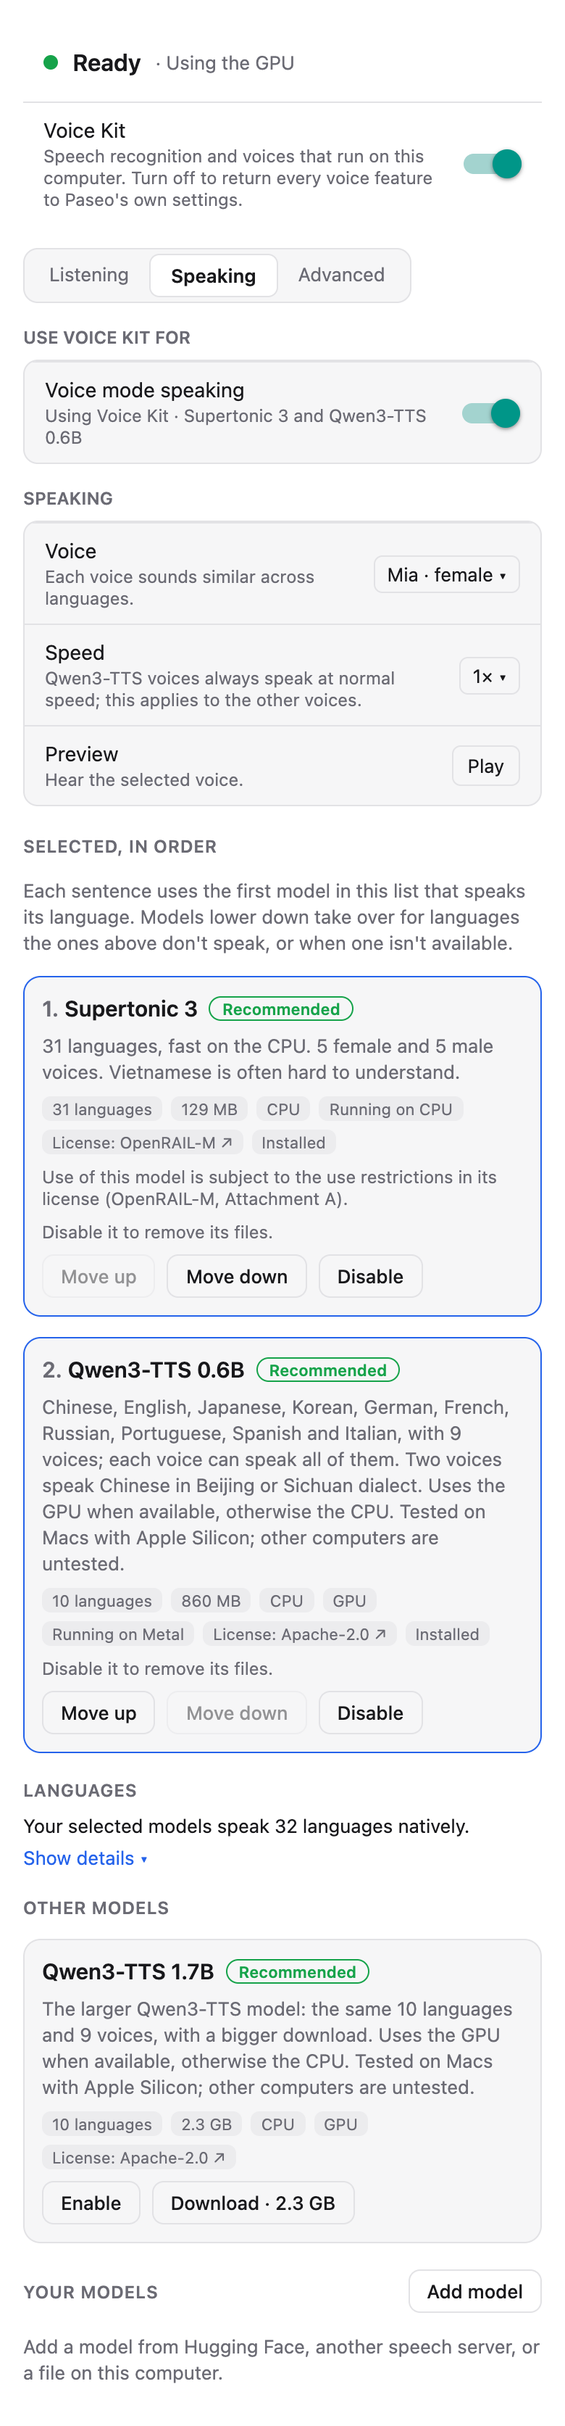
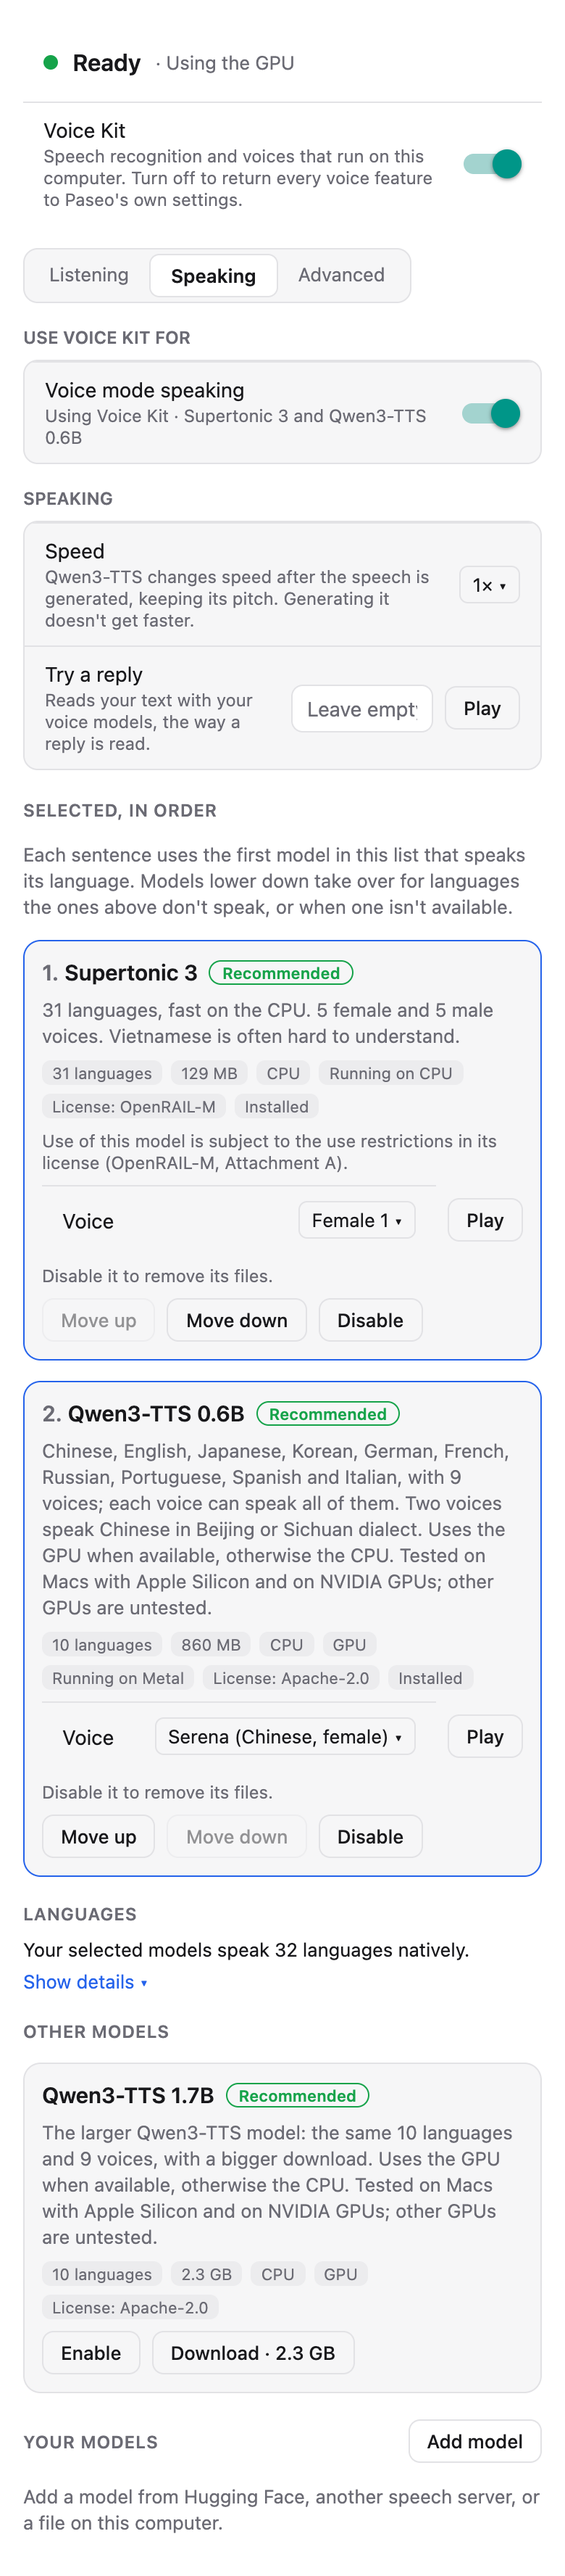
Refresh the listing screenshots and fix Try a reply on phones
The listing screenshots showed the removed shared voice picker. They are re-rendered from
the current settings screen with the capture harness (sample data, Paseo controls mocked).
Rendering the phone width showed Try a reply's title and hint squeezed to one letter per
line: the field took the full row width. On phones it now shares the row with its label.

diff --git a/plugin/client/settings-screen.tsx b/plugin/client/settings-screen.tsx
@@ -538,7 +538,9 @@ export function SettingsScreen({ theme, layout }: PluginSurfaceProps) {
               label={t("speaking.tryReply")}
               hint={replyRuns?.length ? t("speaking.readBy", { list: joinList(t, replyRuns.map(spokenBy)) }) : t("speaking.tryReplyHint")}
             >
-              <View style={{ width: layout.compact ? "100%" : 360, maxWidth: "100%" }}>
+              {/* On phones the field shares the row with its label instead of taking the full width,
+                  which squeezed the label to one letter per line where the row is horizontal. */}
+              <View style={layout.compact ? { flexGrow: 1, flexShrink: 1, flexBasis: 0, minWidth: 140 } : { width: 360, maxWidth: "100%" }}>
                 <FieldWithAction
                   theme={theme}
                   value={replyText}
